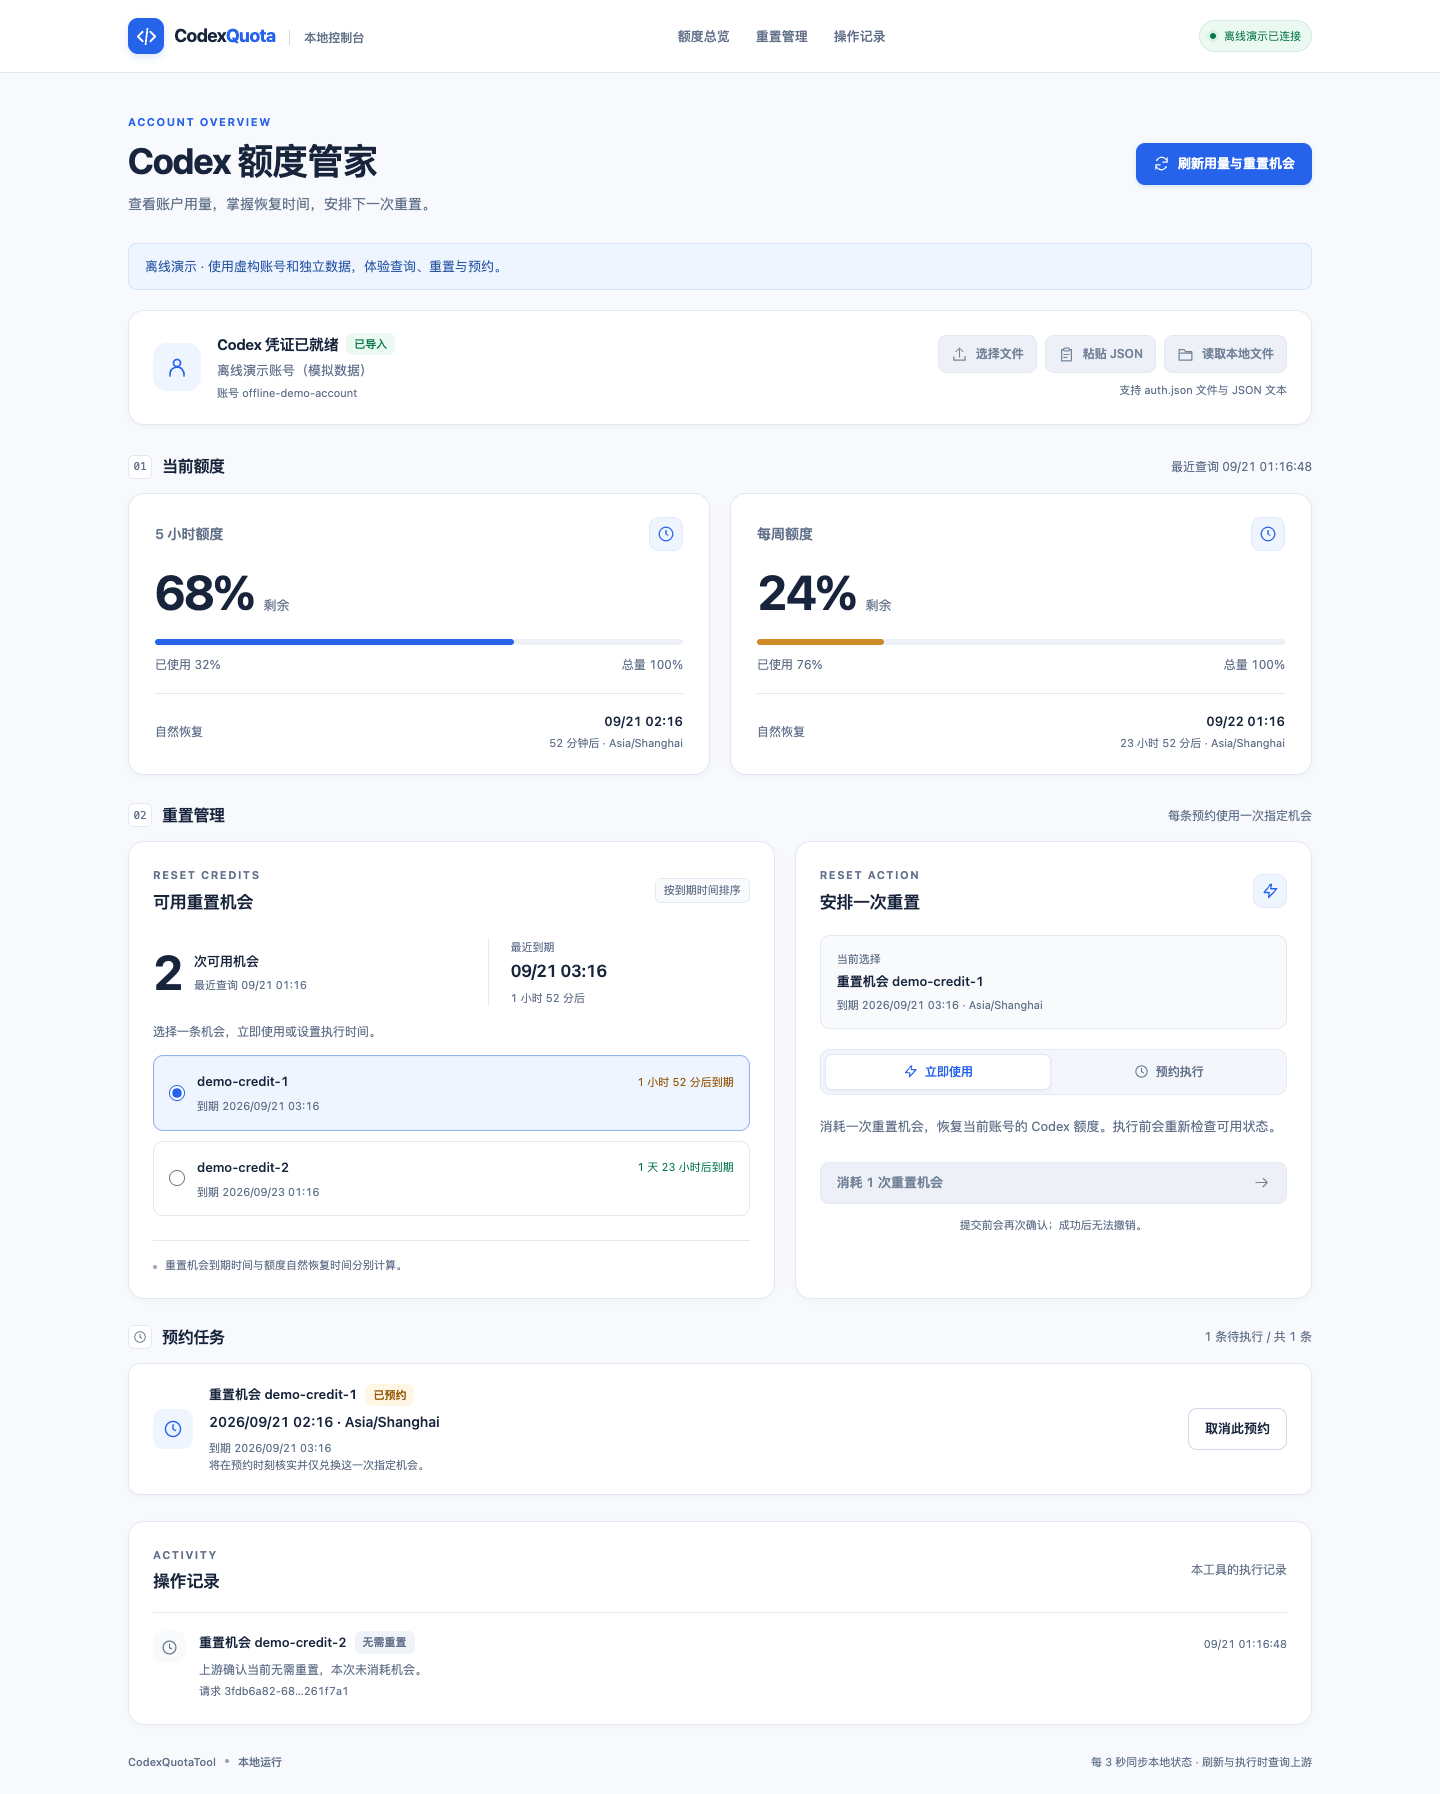
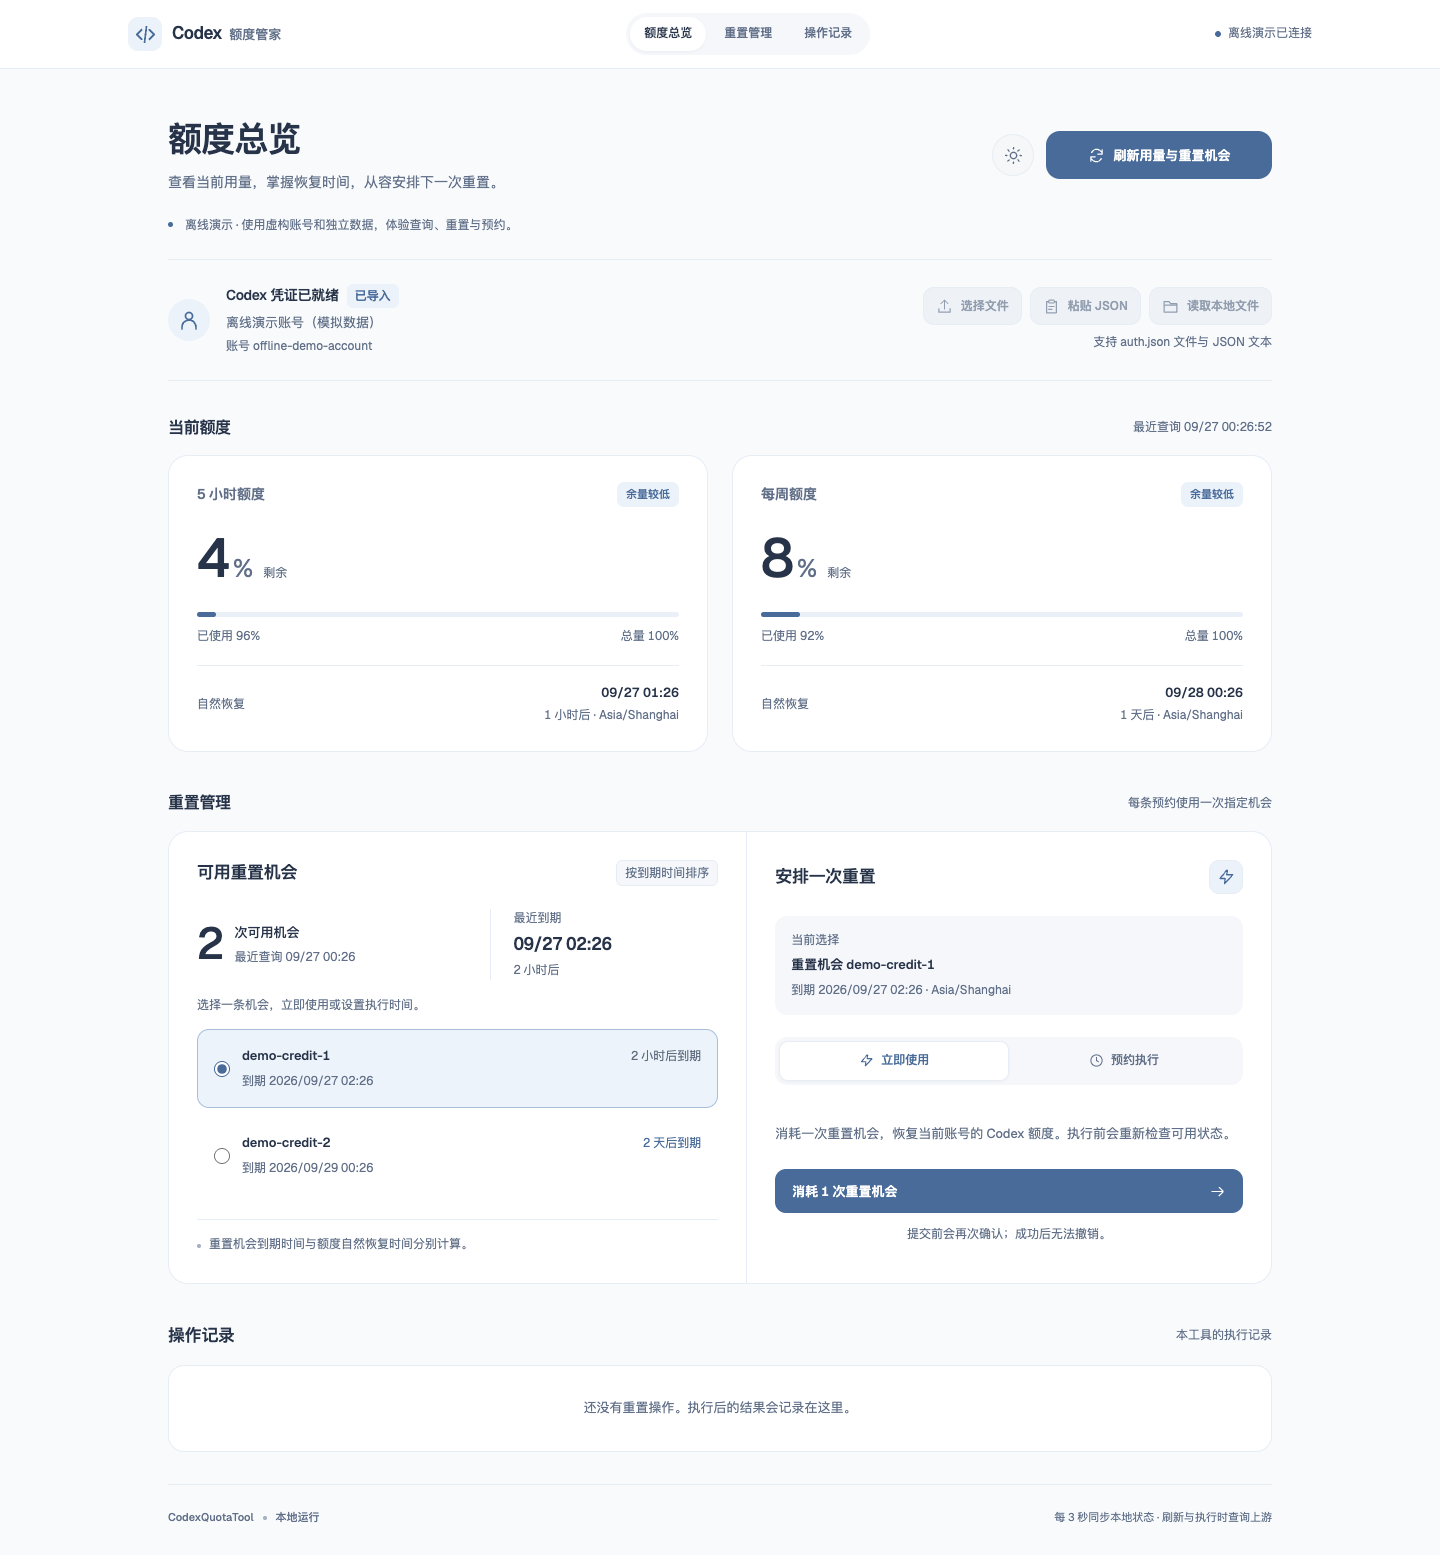
docs: refresh dashboard previews and appearance guide
Document appearance modes, saved preferences, motion behavior, and the
browser screenshot workflow in both language guides. Refresh the light
preview and add a dark preview using isolated offline demo data.

Retain Geist attribution and link the bundled font license. Reviewed PNG
assets contain no text or EXIF metadata and show only mock account data.

diff --git a/README.md b/README.md
@@ -11,7 +11,16 @@ schedule a one-time redemption.
 - Manage independent schedules and inspect their operation records.
 - Try the workflow with an isolated, offline demo account.
 
-![Dashboard with demo usage, reset credits, and a scheduled reset](docs/dashboard.png)
+![Dashboard with demo usage and reset credits](docs/dashboard.png)
+
+[Dark mode preview](docs/dashboard-dark.png)
+
+The interface uses generous whitespace, light section dividers, a muted blue
+accent, and locally served Geist typography. Light mode is the default; the
+appearance button beside the page title cycles through light, dark, and system
+modes and remembers the choice locally. The refresh button morphs in place
+between querying, completion, and failure states. Spring-driven tabs and quota
+meters respect the system's reduced-motion preference.
 
 ## Quick start
 
@@ -161,6 +170,15 @@ Python tests use mock upstream responses and controllable clocks. The checks cov
 scheduling, redemption recovery, credential updates, local HTTP access, and
 dashboard interactions.
 
+Animations are rendered by `QuotaMotion.seek(t)` in `web/motion.js`, with `t` in
+seconds on the `performance.now() / 1000` clock. Input records timestamped target
+changes; closed-form spring responses are summed to compute each frame. Browser
+checks cover out-of-order seeking, rapid reversals, mutually exclusive text
+states, failure feedback, reduced motion, saved themes, cross-tab synchronization,
+and text contrast. Business state polling runs independently of the animation
+clock. Set `UI_SCREENSHOT_DIR=/tmp/quota-ui` when running browser tests to export
+light, dark, and mobile screenshots.
+
 Contributions should contain a focused change, regression tests for behavior
 changes, and matching updates to both READMEs. Run `ruff format .` and
 `npm run format` when editing Python or frontend files.
@@ -168,3 +186,6 @@ changes, and matching updates to both READMEs. Run `ruff format .` and
 ## License
 
 [MIT](LICENSE), copyright 2026 Lian Junhong.
+
+The bundled [Geist font](https://github.com/vercel/geist-font) is distributed under
+the [SIL Open Font License 1.1](web/fonts/OFL.txt).

diff --git a/README_CN.md b/README_CN.md
@@ -9,7 +9,11 @@
 - 分别管理多条预约，查看执行记录。
 - 使用隔离的离线演示账号体验完整流程。
 
-![演示账号的用量、重置机会和预约任务](docs/dashboard.png)
+![演示账号的用量与重置机会](docs/dashboard.png)
+
+[深色预览](docs/dashboard-dark.png)
+
+界面采用宽松留白、轻分区、雾蓝强调色和本地加载的 Geist 字体。默认使用浅色，标题右侧的外观按钮依次切换浅色、深色和跟随系统，并在本机记住选择。刷新按钮在原位切换查询、完成与失败状态；标签指示器和额度条使用弹簧动效，并遵循系统的「减少动态效果」设置。
 
 ## 快速开始
 
@@ -119,8 +123,12 @@ npm run test:ui
 
 本机已安装 Google Chrome 时，可以运行 `PLAYWRIGHT_CHANNEL=chrome npm run test:ui`。浏览器测试会启动临时演示实例，结束后删除测试数据。Python 测试使用模拟上游响应和可控时钟，覆盖预约、重置恢复、凭证更新、本地 HTTP 访问和网页交互。
 
+动效由 `web/motion.js` 的 `QuotaMotion.seek(t)` 渲染，`t` 使用与 `performance.now() / 1000` 相同的秒数基准。点击仅记录带时间戳的目标变化，渲染由闭式弹簧响应叠加计算。浏览器测试包含乱序 seek、快速切换、文字互斥显示、失败反馈、减少动态效果、主题记忆、跨标签页同步和文字对比度检查。业务状态轮询独立于动画时钟。运行测试时设置 `UI_SCREENSHOT_DIR=/tmp/quota-ui` 可导出浅色、深色与手机布局截图。
+
 提交贡献时，请围绕一个具体改动组织代码，为行为变化补充回归测试，并同步更新两份 README。修改 Python 或前端代码后，分别运行 `ruff format .` 和 `npm run format`。
 
 ## 许可证
 
 [MIT](LICENSE)，版权归 2026 Lian Junhong 所有。
+
+随项目提供的 [Geist 字体](https://github.com/vercel/geist-font) 使用 [SIL Open Font License 1.1](web/fonts/OFL.txt)。
